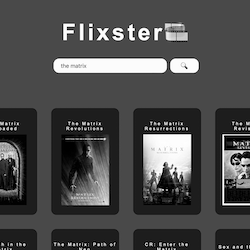
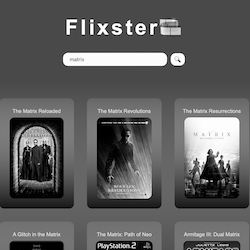
länkbyte flixster

diff --git a/index.html b/index.html
@@ -170,10 +170,10 @@
 
       <article class="arbetsprov3Container">
 
-        <a href="https://gamershabandari.github.io/calculator/" target="_blank"><img src="img/calc.png"
+        <a href="https://gamershabandari.github.io/angular_movieservice/" target="_blank"><img src="img/flixster.png"
             class="arbetsprov3" alt="bild på arbetsprov 3"></a>
 
-            <a href="https://github.com/GamerShabandari/calculator" target="_blank"><img src="img/calculator_git.png"
+            <a href="https://github.com/GamerShabandari/angular_movieservice" target="_blank"><img src="img/flixster_git.png"
               class="arbetsprov3" alt="bild på arbetsprov 3"></a>
 
       </article>
